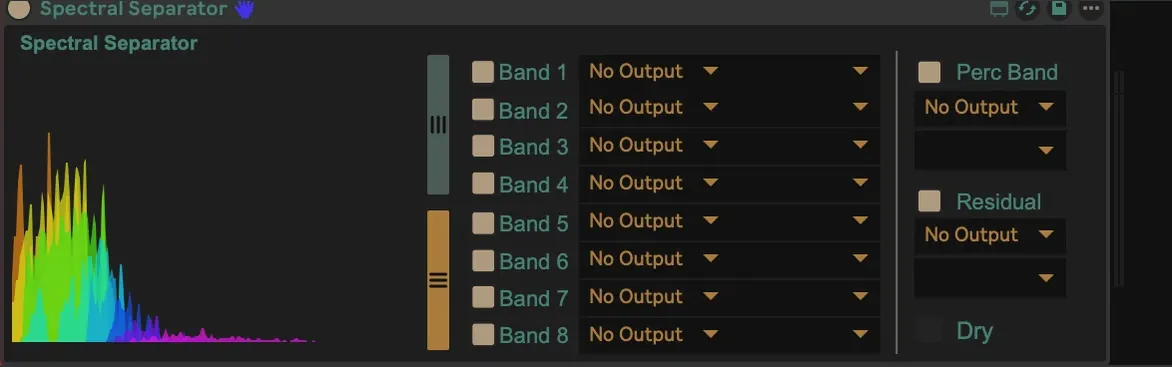
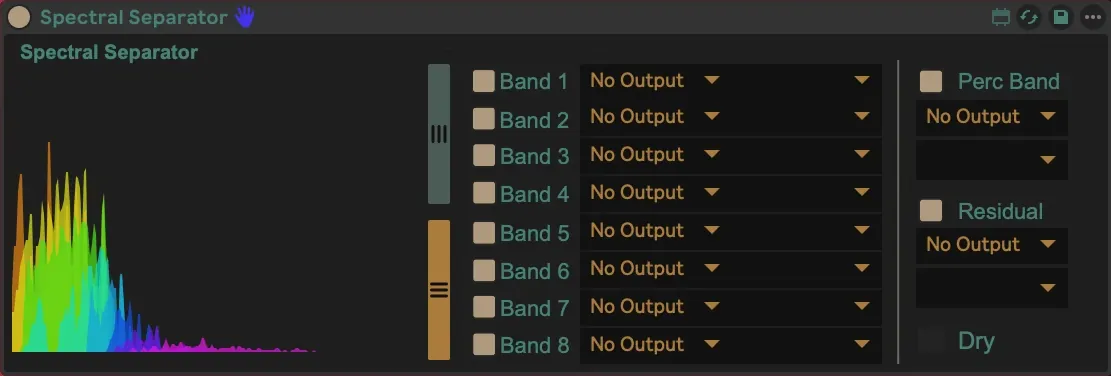
两张界面图改由作者在 tmp 裁切工具里框选
上一版这两张图的裁切是我定的（去 Live 工具条 → 裁到红框以内 → 统一画布 1172×367），
作者判定「切的不对」——边界是我猜的，两张的构图也没真正对齐。

新增本地裁切工具 tmp/crop-tool/（Node 服务 + 单页：拖框移动、四角缩放、直接填
x/y/w/h、实时预览；保存时把 {x,y,w,h} 与裁好的 PNG 一起写进 tmp/，不部署不入库）。
作者自己切了两张：1-ui @(14,32) 1111×376、2-routing @(18,30) 1112×376。落地只把差
1px 的宽度对齐（统一 1111×376，从右侧裁掉 1px），其余完全用作者的框，转 WebP q80
后替换 img/spectral-dissector-2.webp（页首）与 img/spectral-dissector-3.webp（技术介绍）。
路径没变，所以只是换文件。

实测：两图同为 1111×376，17.3 KB 与 19.1 KB；verify 834 项全过；coverage 零缺字。
changelog.js v35→36。

diff --git a/js/changelog.js b/js/changelog.js
@@ -17,6 +17,18 @@ if (typeof App.injectCanonical === 'function' && typeof App.pageHref === 'functi
     {
       date: '2026-10-09',
       title: {
+        zh: '两张界面图改由作者自己在 tmp 裁切工具里框选；新增那个工具',
+        en: 'Both interface shots are cropped by the author in a local tool, which is new here'
+      },
+      brief: {
+        zh: '新增 tmp 裁切工具；两张界面图改由作者自己框选（1111×376），替换页首与技术介绍里那两张',
+        en: 'A local cropping tool, with both interface shots cropped by the author at 1111 by 376.'
+      },
+      media: ''
+    },
+    {
+      date: '2026-10-09',
+      title: {
         zh: 'SPECTRAL DISSECTOR 补上路由菜单截图；「当前版界面截图（待补）」那句改准',
         en: 'SPECTRAL DISSECTOR gains its routing-menu screenshot, and a stale "to come" is corrected'
       },

diff --git a/changelog.html b/changelog.html
@@ -39,7 +39,7 @@
 <script defer src="js/nav.js?v=6"></script>
 <script defer src="js/prefetch.js"></script>
 <!-- page data + logic -->
-<script defer src="js/changelog.js?v=35"></script>
+<script defer src="js/changelog.js?v=36"></script>
 </head>
 <body>
 

diff --git a/changelog/index.html b/changelog/index.html
@@ -54,7 +54,7 @@
 <script defer src="js/nav.js?v=6"></script>
 <script defer src="js/prefetch.js"></script>
 <!-- page data + logic -->
-<script defer src="js/changelog.js?v=35"></script>
+<script defer src="js/changelog.js?v=36"></script>
 </head>
 <body>
 

diff --git a/changelog/zh/index.html b/changelog/zh/index.html
@@ -54,7 +54,7 @@
 <script defer src="js/nav.js?v=6"></script>
 <script defer src="js/prefetch.js"></script>
 <!-- page data + logic -->
-<script defer src="js/changelog.js?v=35"></script>
+<script defer src="js/changelog.js?v=36"></script>
 </head>
 <body>
 
